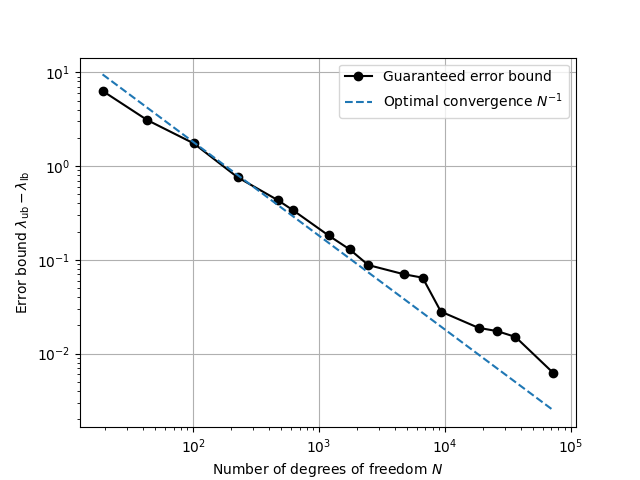
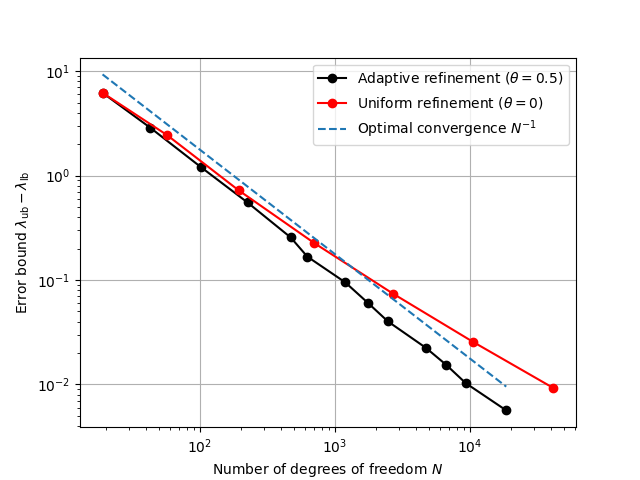
Localise

diff --git a/demos/poisson_adaptive_eigenvalue/poisson_adaptive_eigenvalue.py.rst b/demos/poisson_adaptive_eigenvalue/poisson_adaptive_eigenvalue.py.rst
@@ -27,9 +27,9 @@ We then define the L-shaped domain using Netgen's Open CASCADE technology (OCC) 
 We create a function to solve the eigenvalue problem for both continuous (CG) and nonconforming Crouzeix-Raviart (CR) :cite:`Crouzeix:1973` elements. By the Rayleigh-Ritz principle :cite:`Boffi:2010,Gander:2012`, the CG solution provides an upper bound :math:`\lambda_{\text{ub}}`. The CR solution gives a discrete eigenvalue :math:`\lambda_{\text{CR}}`, which can be postprocessed to yield a guaranteed lower bound:
 
 .. math::
-    \lambda_{\text{lb}} = \frac{\lambda_{\text{CR}}}{1 + \kappa_{\text{CR}}^2 h_{\max}^2 \lambda_{\text{CR}}}
+    \lambda_{\text{lb}} = \frac{\lambda_{\text{CR}}}{1 + \kappa_{\text{CR}}^2 \lambda_{\text{CR}} \int_\Omega h^2 |u_{\text{CR}}|^2 \, \text{d}x}
 
-where :math:`\kappa_{\text{CR}} \approx 0.1893` is the constant established by Carstensen and Gedicke :cite:`CarstensenGedicke:2014`. A general theory for deriving lower bounds for eigenvalues with nonconforming methods has been developed by Hu et al. :cite:`Hu:2014`. We will use the difference between these guaranteed upper and lower bounds to terminate the adaptive iteration. ::
+where :math:`\kappa_{\text{CR}} \approx 0.1893` is the constant established by Carstensen and Gedicke :cite:`CarstensenGedicke:2014`. To ensure the lower bound converges optimally on adaptively refined meshes (where the global maximum mesh size does not vanish), we employ a localized version of the consistency bound (as developed in the frameworks of :cite:`CarstensenGedicke:2014,Hu:2014`), which replaces the global mesh size with the element-wise local mesh size :math:`h`. We will use the difference between these guaranteed upper and lower bounds to terminate the adaptive iteration. ::
 
   def solve_poisson(mesh):
       h_max = Function(FunctionSpace(mesh, "DG", 0)).interpolate(CellDiameter(mesh)).dat.data_ro.max()
@@ -61,8 +61,12 @@ where :math:`\kappa_{\text{CR}} \approx 0.1893` is the constant established by C
 
           if space == "CR":
               lambda_CR = eigensolver.eigenvalue(0).real
+              uh_CR = eigensolver.eigenfunction(0)[0]
+              h = CellDiameter(mesh)
+              # Localized consistency bound to prevent stall on adaptive meshes
+              h_norm_sq = assemble(h**2 * uh_CR**2 * dx)
               kappa_CR = 0.1893
-              bounds["lb"] = lambda_CR / (1 + kappa_CR**2 * h_max**2 * lambda_CR)
+              bounds["lb"] = lambda_CR / (1 + kappa_CR**2 * lambda_CR * h_norm_sq)
           if space == "CG":
               bounds["ub"] = eigensolver.eigenvalue(0).real
               eigenfunction = eigensolver.eigenfunction(0)[0]
@@ -132,14 +136,35 @@ Finally, we run the adaptive loop until the upper and lower bounds agree to with
       eta, _ = estimate_error(mesh, uh, lam_ub)
       mesh = adapt(mesh, eta)
 
-We can plot the convergence of the error bound :math:`\lambda_{\text{ub}} - \lambda_{\text{lb}}` against the number of degrees of freedom. With adaptivity, we expect the optimal :math:`O(N^{-1})` convergence rate. ::
+To demonstrate that adaptivity is necessary to achieve the optimal convergence rate, we can run the same script with :math:`\theta = 0`, which forces uniform refinement (all cells are marked for refinement at every step). ::
+
+  mesh_uniform = Mesh(ngmesh)
+  uniform_error_estimators = []
+  uniform_dofs = []
+
+  def adapt_uniform(mesh, eta):
+      markers = Function(FunctionSpace(mesh, "DG", 0)).assign(1.0)
+      return mesh.refine_marked_elements(markers)
+
+  for i in range(max_iterations):
+      lam_lb, lam_ub, uh = solve_poisson(mesh_uniform)
+      err = lam_ub - lam_lb
+      uniform_error_estimators.append(err)
+      uniform_dofs.append(uh.function_space().dim())
+      if err < 1e-2:
+          break
+      eta, _ = estimate_error(mesh_uniform, uh, lam_ub)
+      mesh_uniform = adapt_uniform(mesh_uniform, eta)
+
+We can plot the convergence of the error bound :math:`\lambda_{\text{ub}} - \lambda_{\text{lb}}` against the number of degrees of freedom. With adaptivity, we achieve the optimal :math:`O(N^{-1})` convergence rate, whereas uniform refinement is suboptimal due to the singularity. ::
 
   try:
       import matplotlib.pyplot as plt
       import numpy as np
 
       plt.grid()
-      plt.loglog(dofs, error_estimators, '-ok', label="Guaranteed error bound")
+      plt.loglog(dofs, error_estimators, '-ok', label=r"Adaptive refinement ($\theta = 0.5$)")
+      plt.loglog(uniform_dofs, uniform_error_estimators, '-or', label=r"Uniform refinement ($\theta = 0$)")
       scaling = 1.5 * error_estimators[0] / dofs[0]**-1
       plt.loglog(dofs, np.array(dofs)**(-1.0) * scaling, '--', label="Optimal convergence $N^{-1}$")
       plt.xlabel("Number of degrees of freedom $N$")
